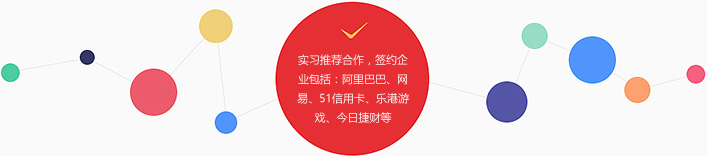
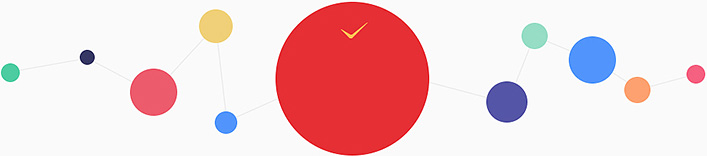
Hi

diff --git a/enroll.html b/enroll.html
@@ -8,6 +8,7 @@
 		<link rel="stylesheet" href="css/bootstrap.min.css">
 		<link rel="stylesheet" href="css/royalslider.css">
 		<link rel="stylesheet" href="css/rs-default.css">
+		<link rel="stylesheet" href="css/video-js.css">
 		<link rel="stylesheet" href="css/style.css">
 		<link rel="stylesheet" href="css/enroll.css">
 		<!-- <link rel="icon" href="/content/uploads/settings/favicon.png" type="image/x-icon">
@@ -205,7 +206,7 @@
 				</header>
 				<div class="section-body">
 					<div class="container">
-
+						<div class="text center-block">实习推荐合作，签约企业包括：阿里巴巴、网易、51信用卡、乐港游戏、今日捷财等</div>
 					</div>
 				</div>
 			</section>
@@ -285,10 +286,16 @@
 				</div>
 			</div>
 		</footer>
+		<video id="video" class="video-js" controls preload="auto">
+			<source src="oceans-clip.mp4" type='video/mp4' />
+			<source src="oceans-clip.mp4" type='video/webm' />
+			<p class="vjs-no-js">To view this video please enable JavaScript, and consider upgrading to a web browser that <a href="javascript:;" target="_blank">supports HTML5 video</a></p>
+	  </video>
 
 		<!-- <script>if (!window.jQuery) { document.write('<script src="http://code.jquery.com/jquery-1.11.2.min.js"><\/script>'); }</script> -->
 		<script src="js/jquery-1.11.2.min.js"></script>
 		<script src="js/jquery.royalslider.min.js"></script>
+		<script src="js/video.js"></script>
 		<script type="text/javascript">
 			(function () {
 				$('#covers').royalSlider({
@@ -306,6 +313,15 @@
 					navigateByClick: false,
 					sliderDrag: false,
 					transitionSpeed: 400
+				});
+			}());
+
+			(function () {
+				var video = videojs('video');
+
+				$('.block-thumbnail').on('click', function () {
+					video.requestFullscreen();
+					video.play();
 				});
 			}());
 		</script>

diff --git a/css/enroll.css b/css/enroll.css
@@ -23,6 +23,12 @@ img {
 
 
 
+.rsBullet {
+	cursor: pointer;
+}
+
+
+
 .text {
 	line-height: 1.7;
 	text-align: center;
@@ -285,10 +291,11 @@ img {
 }
 .teacher-intro {
 	position: absolute;
-	left: 0.5em;
-	right: 0.5em;
+	left: 0;
+	right: 0;
 	bottom: 0;
-	padding: 0.5em 0;
+	padding: 0.5em;
+	background: rgba(0,0,0,0.6);
 }
 @media (min-width: 992px) {
 	.section-4 .container {
@@ -351,6 +358,12 @@ img {
 .section-5 .section-body {
 	height: 300px;
 	background: url(../img/circles.jpg) no-repeat 50% 20%;
+	padding-top: 75px;
+}
+.section-5 .text {
+	max-width: 120px;
+	font-size: 0.86em;
+	color: #fff;
 }
 
 
@@ -368,11 +381,21 @@ img {
 	margin-top: 30px;
 }
 .qrcode {
+	display: initial;
 	width: 84px;
 	border: 1px solid #e3e3e3;
 	padding: 2px;
 	margin: 0 0.25em;
 	box-shadow: 0 0 0 1px #f9f9f9;
+}
+
+
+
+.video-js {
+	display: none;
+}
+.vjs-fullscreen {
+	display: block;
 }
 
 
